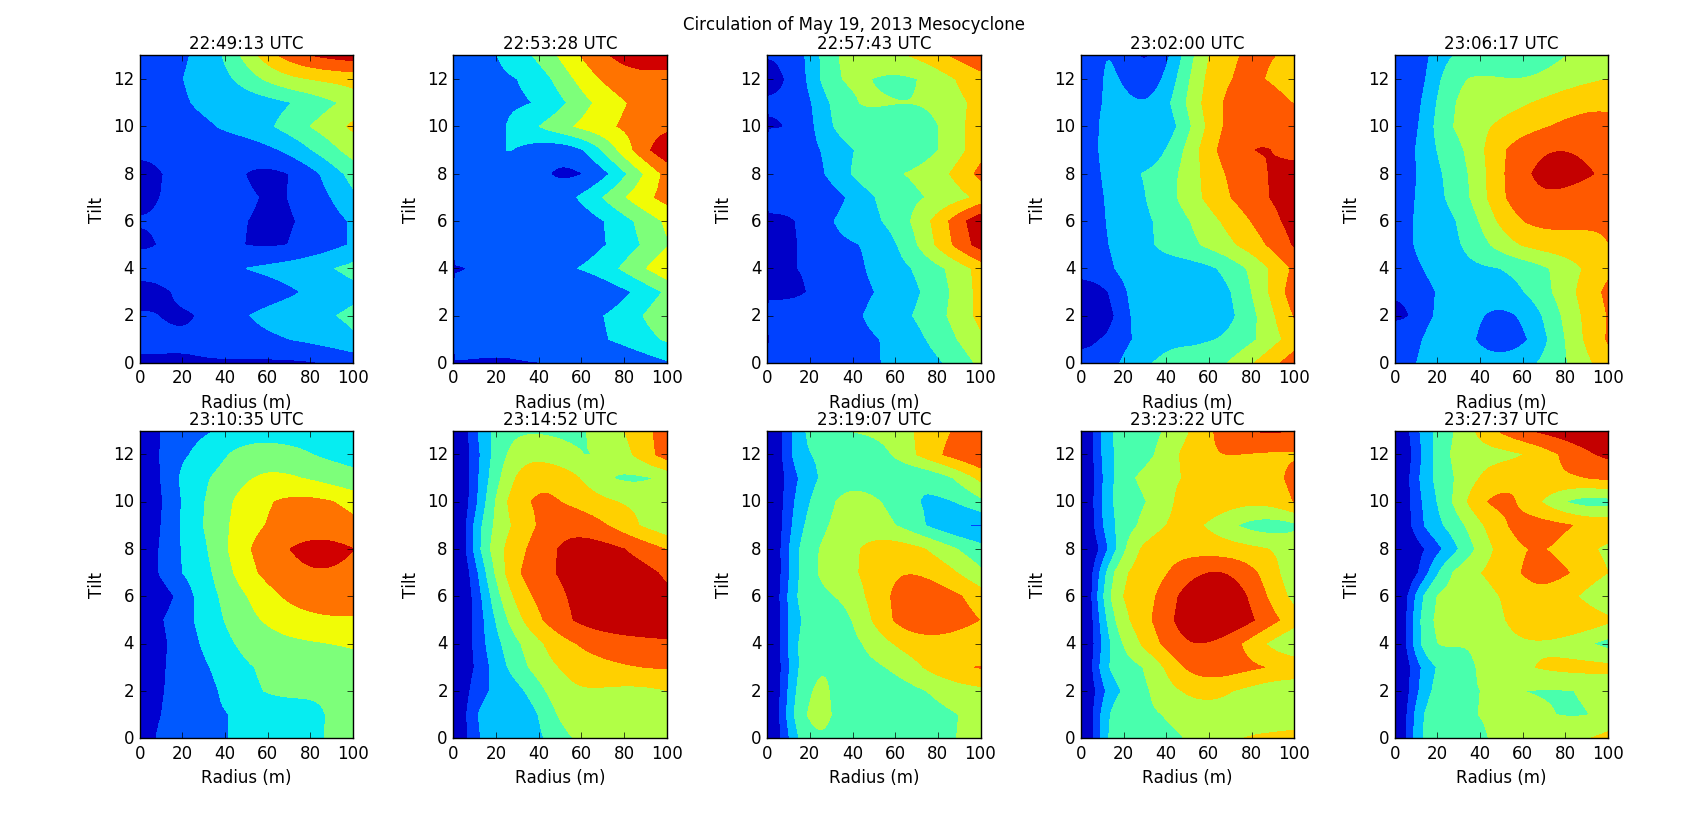
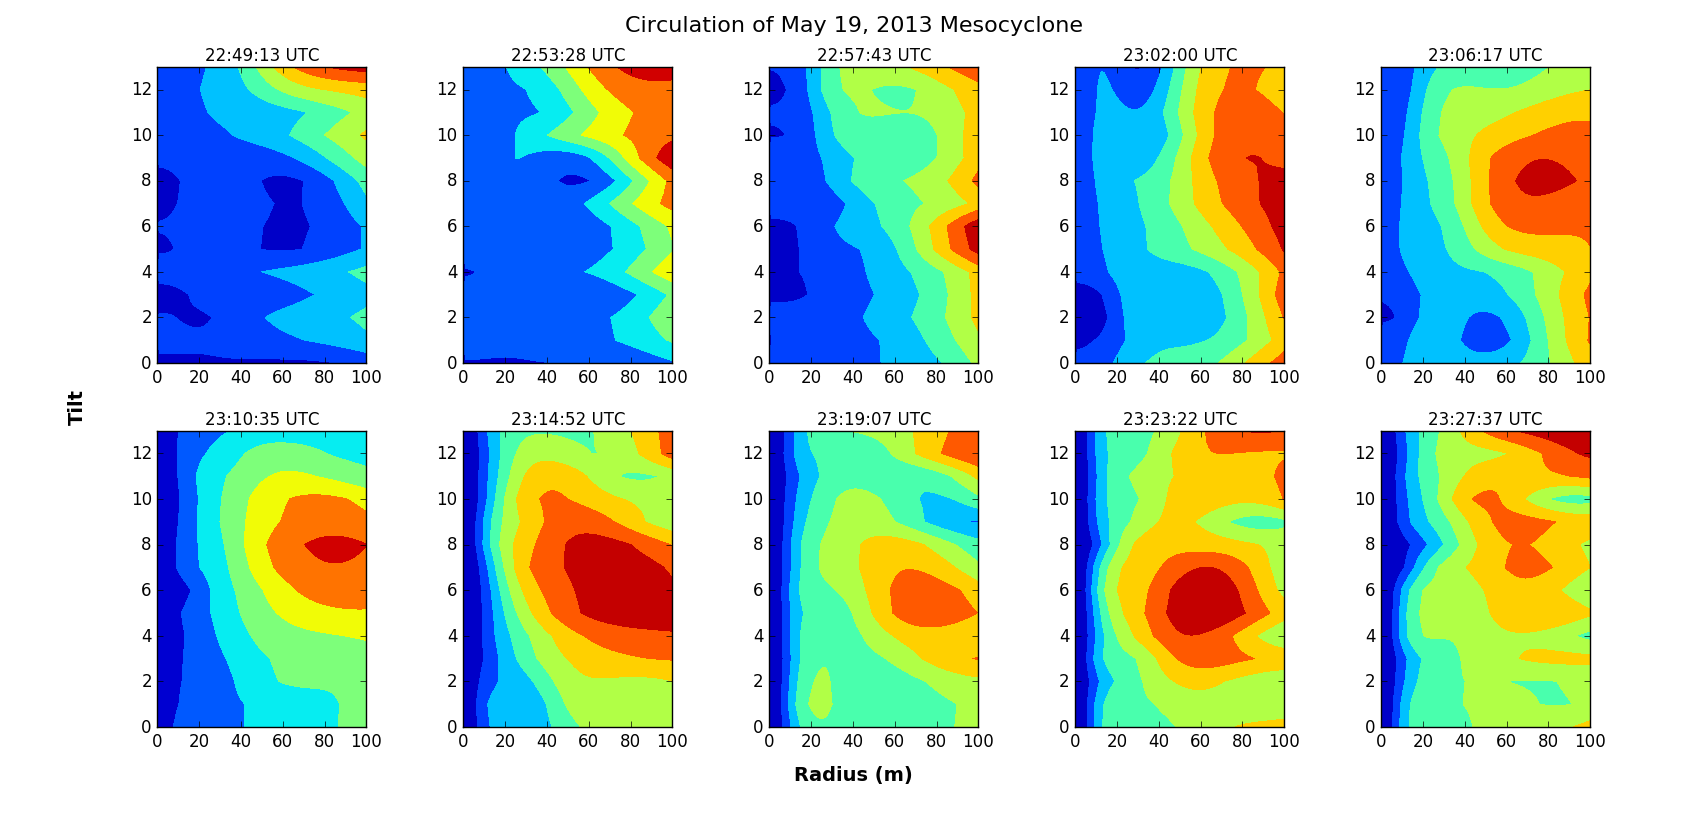
Made some formatting changes to plots

Changed region(s): [[0.031, 0.0, 0.9625, 0.984], [0.4347, 0.4305, 0.4657, 0.4613], [0.031, 0.492, 0.0621, 0.5228]]

diff --git a/wind_ana_code.py b/wind_ana_code.py
@@ -2,6 +2,9 @@ import matplotlib.pylab as plt
 import numpy as np
 import scipy.ndimage as ndimage
 import glob
+
+########################### Functions ###################################
+
 def polar_disk(xgrid,ygrid,xi,yi,hspac,az_spac,up,vp):
     az_range = np.arange(0,361,az_spac)
     rad_range = np.arange(0,5001,hspac)
@@ -20,17 +23,48 @@ def polar_disk(xgrid,ygrid,xi,yi,hspac,az_spac,up,vp):
 
 def pts_to_grid(pts_flat,dist,grid):
                 return np.interp((pts_flat-dist),grid,range(0,len(grid)))
+
+r = 6372.797 #Radius of the earth, global variable
+# Current working function
+def latlondis(lat0,lon0,lat2,lon2):
+    lat1 = np.pi*lat0/180.0
+    lat3 = np.pi*lat2/180.0
+    lon1 = np.pi*lon0/180.0
+    lon3 = np.pi*lon2/180.0
+    dlat = lat1-lat3
+    dlon = lon1-lon3
+    if (dlon!=0): #accounts for the direction in x and y in the sign of the distance
+        dirx = dlon/abs(dlon)
+    else: 
+        dirx=1
+    if (dlat!=0):
+        diry = dlat/abs(dlat)
+    else:
+        diry=1
+    
+    dis_x = np.cos(lat3) * np.cos(lat3)*np.sin(dlon/2.0)*np.sin(dlon/2.0)
+    dis_x_km = 2.0*np.arctan2(np.sqrt(dis_x),np.sqrt(1-dis_x))*r*dirx
+    dis_y =np.sin(dlat/2.0)*np.sin(dlat/2.0)
+    dis_y_km = 2.0*np.arctan2(np.sqrt(dis_y),np.sqrt(1-dis_y))*r*diry
+    return dis_x_km,dis_y_km
+
+##########################################################################
+
+
 day = '20130519'
 #radar = '/Users/klwalsh/CapstoneGit/NSSLResults/KTLX_%s' %day
 radar = '/Users/Rachel/Documents/GitHub/Capstone/NSSLResults/KTLX_%s' %day
-row = 1
-col = 1
-font = {'family' : 'normal', 
+axis_title_font = {'family' : 'normal',
 	'size' : 12 }
-fig, test = plt.subplots(2, 5)
-fig.suptitle("Circulation of May 19, 2013 Mesocyclone")
-fig.tight_layout(pad=2.0, h_pad=1.2, w_pad=0.1) # Add spacing between subplots to minimize overcrowding
-test = test.ravel()
+axis_font = {'family' : 'normal',
+	'weight' : 'bold',  
+	'size' : 14}
+fig, sub = plt.subplots(2, 5)
+fig.suptitle("Circulation of May 19, 2013 Mesocyclone", fontsize=16) # Figure label
+fig.text(0.5, 0.04, 'Radius (m)', ha = 'center', fontdict = axis_font) # Horizontal axis label
+fig.text(0.04, 0.5, 'Tilt', va = 'center', rotation = 'vertical', fontdict = axis_font) # Vertical axis label
+fig.tight_layout(pad=2.5, h_pad=1.2, w_pad=.001) # Add spacing between subplots to minimize overcrowding
+sub = sub.ravel()
 index = 0 # Keep track of index of subplot
 for dirf in sorted(glob.glob(radar+'/'+day+'*')):
     tilt_time = day + dirf[-6:] #Set new tilt_time
@@ -103,13 +137,10 @@ for dirf in sorted(glob.glob(radar+'/'+day+'*')):
 
     ##### Circulation plots #####
     #Height/Tilt vs Radius
-    #plt.figure(2, figsize = (12, 8))
-    #plt.figure(1)
-    #plt.subplot(10, col, row)
-    test[index].contourf(C_2D)
-    test[index].set_title(dirf[-6:-4] + ":" + dirf[-4:-2] + ":" + dirf[-2:] + " UTC", font)
-    test[index].set_xlabel("Radius (m)")
-    test[index].set_ylabel("Tilt")
+    sub[index].contourf(C_2D)
+    sub[index].set_title(dirf[-6:-4] + ":" + dirf[-4:-2] + ":" + dirf[-2:] + " UTC", axis_title_font)
+    #sub[index].set_xlabel("Radius (m)")
+    #sub[index].set_ylabel("Tilt")
  #  test.colorbar(circ)
     index = index + 1
 plt.show()
